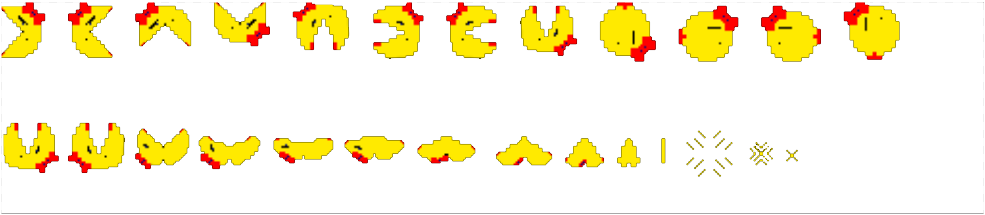
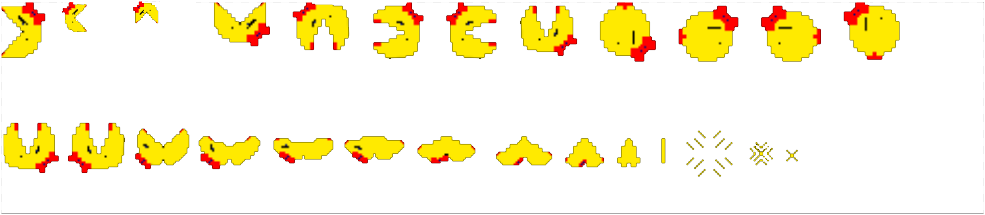
Ghosts are now added

Changed region(s): [[0.0609, 0.0, 0.2132, 0.2791]]

diff --git a/Game1.cs b/Game1.cs
@@ -8,12 +8,13 @@ using System.Linq;
 
 namespace MsPacMan
 {
+    
     public class Game1 : Game
     {
         #region Variables
-
-        public const int outputTileSize = 20;
-
+        
+        public const int outputTileSize = 25;
+        
         GraphicsDeviceManager graphics;
 
         SpriteBatch spriteBatch;
@@ -22,7 +23,9 @@ namespace MsPacMan
 
         Board board;
 
-        int boardWidth, boardHeight;
+        List<Ghosts> ghosts;
+
+        public int boardWidth, boardHeight;
 
         #endregion
 
@@ -60,6 +63,14 @@ namespace MsPacMan
                 return spriteSheetMap;
             }
         }
+        public Texture2D SpriteSheetAssets
+        {
+            get
+            {
+                return spriteSheetAssets;
+            }
+        }
+
 
         //property refering to the textures to create the assets
         public SpriteBatch SpriteBatch
@@ -145,6 +156,7 @@ namespace MsPacMan
 
             spriteBatch.Begin();
 
+            //drawing the map
             for (x = 0; x < boardWidth; x++)
             {
                 for (y = 0; y < boardHeight; y++)
@@ -189,11 +201,6 @@ namespace MsPacMan
                             /*right side vertical lines*/
                        case 'V':
                             spriteBatch.Draw(texture: SpriteSheetMap, destinationRectangle: outRect, sourceRectangle: new Rectangle(2 * 35, 6 * 35, 35, 35), color: Color.White);
-                            break;
-
-                            //pacman
-                        case 'S':
-                            spriteBatch.Draw(texture: spriteSheetPlayer, destinationRectangle: outRect, sourceRectangle: new Rectangle(4 * 35, 6 * 35, 35, 35), color: Color.White);
                             break;
                             //special corners for more rounded places
                             /*left side*/
@@ -256,7 +263,7 @@ namespace MsPacMan
             //this reads the file from content
             string[] file = File.ReadAllLines(Content.RootDirectory + "/map.txt");
 
-            int y, x;
+            int y, x, i, j;
 
             boardWidth = file[0].Length;
 
@@ -271,6 +278,29 @@ namespace MsPacMan
                 for (x = 0; x < boardWidth; x++)
                 {
                     Board.board[x, y] = file[y][x];
+                }
+            }
+            ghosts = new List<Ghosts>();
+
+            for (i = 0; i < boardHeight; i++)
+            {
+                for (j = 0; j < boardWidth; j++)
+                {
+                    if (file[i][j] == 'G' || file[i][j] == '1' || file[i][j] == '2' || file[i][j] == '3' || file[i][j] == 'E' || file[i][j] == 'C' )
+                    {
+                        Ghosts ghost = new Ghosts(this, j, i, file[i][j]);
+
+                        //using =>this< means it's passing down the whole Game class through the arguments
+                        ghosts.Add(ghost);
+                        Components.Add(ghost);
+
+                        //this removes the enemy and adds a space
+                        Board.board[j, i] = ' ';
+                    }
+                    else
+                    {
+                        Board.board[j, i] = file[i][j];
+                    }
                 }
             }
 

diff --git a/Ghosts.cs b/Ghosts.cs
@@ -1,0 +1,98 @@
+using System;
+using System.Collections.Generic;
+using System.Linq;
+using System.Text;
+using System.Threading.Tasks;
+using Microsoft.Xna.Framework;
+using Microsoft.Xna.Framework.Graphics;
+using Microsoft.Xna.Framework.Input;
+
+namespace MsPacMan
+{
+    public class Ghosts : DrawableGameComponent
+    {
+
+        #region variables
+
+        Texture2D texture;
+
+        SpriteBatch spriteBatch;
+
+        Game1 game1;
+
+        public Board board;
+
+        Point position;
+        
+        char ghostType;
+        
+        #endregion
+
+        #region Constructor
+        public Ghosts(Game1 game, int x, int y, char ghostType) : base(game)
+        {
+            this.texture = game.SpriteSheetAssets;
+            
+            this.spriteBatch = game.SpriteBatch;
+            
+            position.Y = y;
+            
+            position.X = x;
+            
+            game1 = game;
+            
+            board = game1.Board;
+            
+            this.ghostType = ghostType;
+        }
+        #endregion
+
+        #region Properties
+        public Board Board
+        {
+            get
+            {
+                return board;
+            }
+        }
+
+        
+
+        #endregion
+
+        #region Methods
+        //rewritting this method in a different class
+        public override void Draw(GameTime gameTime)
+        {
+            
+            Rectangle outRect = new Rectangle(position.X * Game1.outputTileSize, position.Y * Game1.outputTileSize, Game1.outputTileSize, Game1.outputTileSize);
+            
+            spriteBatch.Begin();
+
+            switch (ghostType)
+            {
+                case 'G':
+                    spriteBatch.Draw(texture, outRect, new Rectangle(0, 0, 16, 16), Color.White);
+                    break;
+                case 'C':
+                    spriteBatch.Draw(texture, outRect, new Rectangle(0,1 * 16, 16, 16), Color.White);
+                    break;
+                case '1':
+                    spriteBatch.Draw(texture, outRect, new Rectangle(0,2 * 16, 16, 16), Color.White);
+                    break;
+                case '2':
+                    spriteBatch.Draw(texture, outRect, new Rectangle(0,3 * 16, 16, 16), Color.White);
+                    break;
+                case '3':
+                    spriteBatch.Draw(texture, outRect, new Rectangle(0,4 * 16, 16, 16), Color.White);
+                    break;
+                case 'E':
+                    spriteBatch.Draw(texture, outRect, new Rectangle(0,5 * 16, 16, 16), Color.White);
+                    break;
+            }
+
+            spriteBatch.End();
+        }
+        #endregion
+    }
+}
